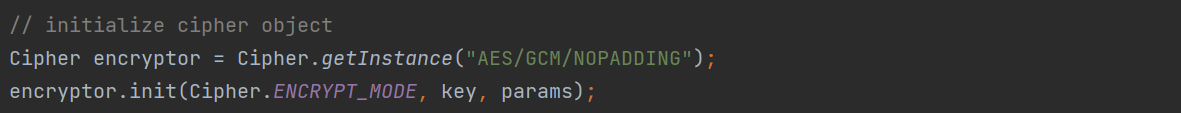
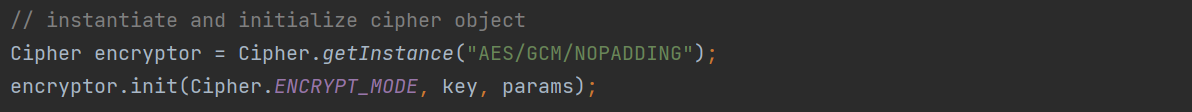
images

Changed region(s): [[0.0, 0.4018, 0.6097, 0.6161], [0.0, 0.6696, 0.5182, 0.9107], [0.0, 0.0804, 0.4572, 0.3214]]

diff --git a/code/src/PasswordBasedAesGcm.java b/code/src/PasswordBasedAesGcm.java
@@ -90,9 +90,11 @@ public class PasswordBasedAesGcm {
             // prepare algorithm parameter
             GCMParameterSpec params = new GCMParameterSpec(this.tagLength, iv);
 
-            // encrypt data
+            // instantiate and initialize cipher object
             Cipher encryptor = Cipher.getInstance("AES/GCM/NOPADDING");
             encryptor.init(Cipher.ENCRYPT_MODE, key, params);
+
+            // encrypt data
             byte[] cipher = encryptor.doFinal(plain);
 
 
@@ -135,7 +137,7 @@ public class PasswordBasedAesGcm {
             // prepare algorithm parameter
             GCMParameterSpec params = new GCMParameterSpec(this.tagLength, iv);
 
-            // initialize cipher object
+            // instantiate and initialize cipher object
             Cipher encryptor = Cipher.getInstance("AES/GCM/NOPADDING");
             encryptor.init(Cipher.ENCRYPT_MODE, key, params);
 
